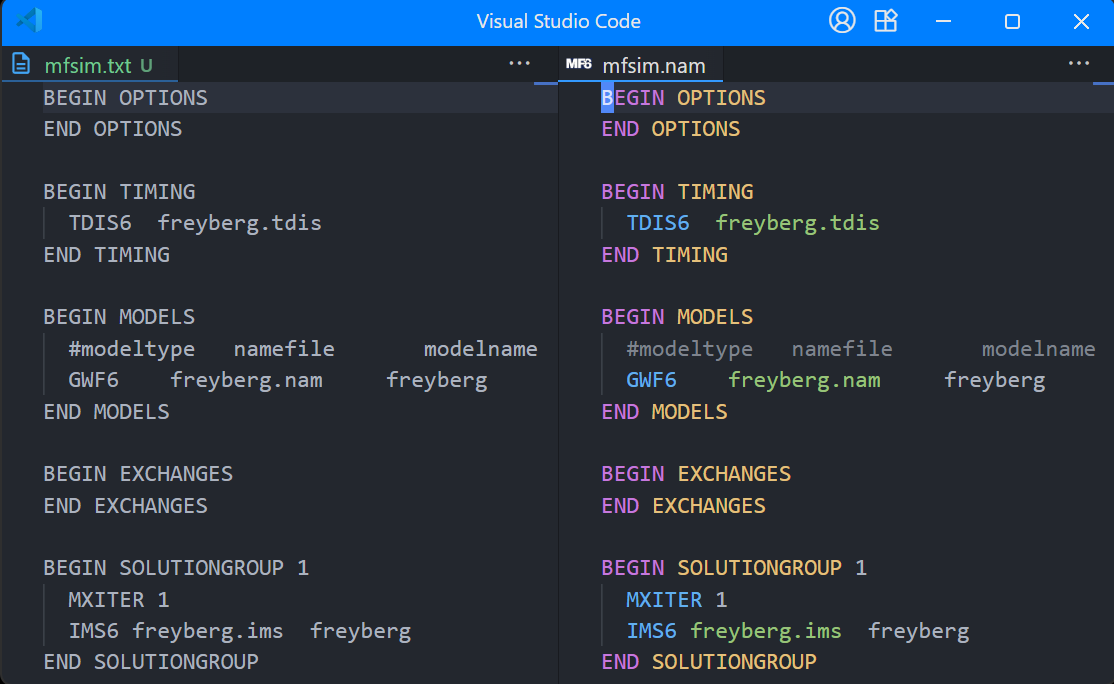
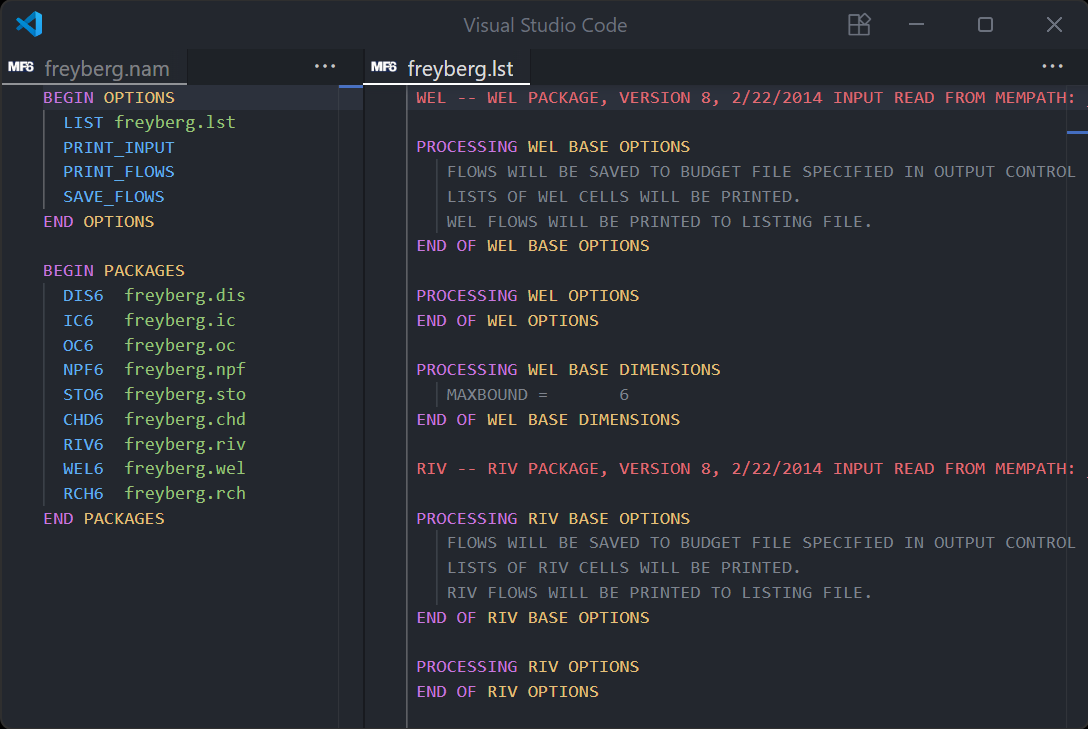
chore(readme): improve feature demo (#164)
* Update demo gif and png

* Improve README demo

* Credit FloPy for sample files used in demo

* Re-update go-to-defn gif

* Re-order features

diff --git a/README.md b/README.md
@@ -13,34 +13,41 @@ This VS Code extension provides rich language features for [MODFLOW 6](https://m
 
 ## Features
 
+_Note: data files used below are from the [**FloPy GitHub repository**](https://github.com/modflowpy/flopy)_
+
+---
+
 ### Syntax highlighting
 
-- MF6 input files
+- MF6 input files and output list files
 
 ![demo-syntax-highlighting](images/demo_syntax_highlighting.png)
 
-- MF6 output list files
-
-![demo-syntax-highlighting-lst](images/demo_syntax_highlighting_lst.png)
-
-### Document symbols
-
-- for integration with VS Code features such as [outline view](https://code.visualstudio.com/docs/getstarted/userinterface#_outline-view), [go-to-symbol](https://code.visualstudio.com/docs/editing/editingevolved#_go-to-symbol), [breadcrumbs](https://code.visualstudio.com/docs/getstarted/userinterface#_breadcrumbs), [sticky scroll](https://code.visualstudio.com/docs/getstarted/userinterface#_sticky-scroll), [minimap](https://code.visualstudio.com/docs/getstarted/userinterface#_minimap), etc.
-
-![symbol-defn](images/demo_symbol_defn.gif)
-
-### Go-to-definition
-
-- `Ctrl + click`
-- `Go To Definition` keybinding (default: `F12`)
-
-![go-to-defn](images/demo_go_to_defn.gif)
+---
 
 ### Hover
 
-- for keyword description and block structure
+- for block structure, keyword description and recarray items
 
 ![hover](images/demo_hover.gif)
+
+---
+
+### Go-to-definition
+
+- via `Ctrl + click` or `Go To Definition` keybinding (default: `F12`)
+
+![go-to-defn](images/demo_go_to_defn.gif)
+
+---
+
+### Document symbols
+
+- for integration with VS Code features such as [go-to-symbol](https://code.visualstudio.com/docs/editing/editingevolved#_go-to-symbol), [outline view](https://code.visualstudio.com/docs/getstarted/userinterface#_outline-view), [breadcrumbs](https://code.visualstudio.com/docs/getstarted/userinterface#_breadcrumbs), [sticky scroll](https://code.visualstudio.com/docs/getstarted/userinterface#_sticky-scroll), [minimap](https://code.visualstudio.com/docs/getstarted/userinterface#_minimap), etc.
+
+![symbol-defn](images/demo_symbol_defn.gif)
+
+---
 
 ### Others:
 
@@ -50,16 +57,18 @@ This VS Code extension provides rich language features for [MODFLOW 6](https://m
 - Auto-closing quotes
 - Surrounding quotes
 
+---
+
 ## Commands
 
-- `MF6 Syntax: Set language to MF6`
-  - useful if extension is not activated automatically (based on file extension)
 - `MF6 Syntax: Go to parent file`
   - opens the parent file of the current MF6 file, if it exists
   - for example:
     - if `freyberg.dis` file is active, it opens `freyberg.nam`
     - if `freyberg.nam` file is active, it opens `mfsim.nam`
     - if `mfsim.nam` file is active, no-op since it is the top-level file
+- `MF6 Syntax: Set language to MF6`
+  - useful if extension is not activated automatically (based on file extension)
 
 ## Settings
 
